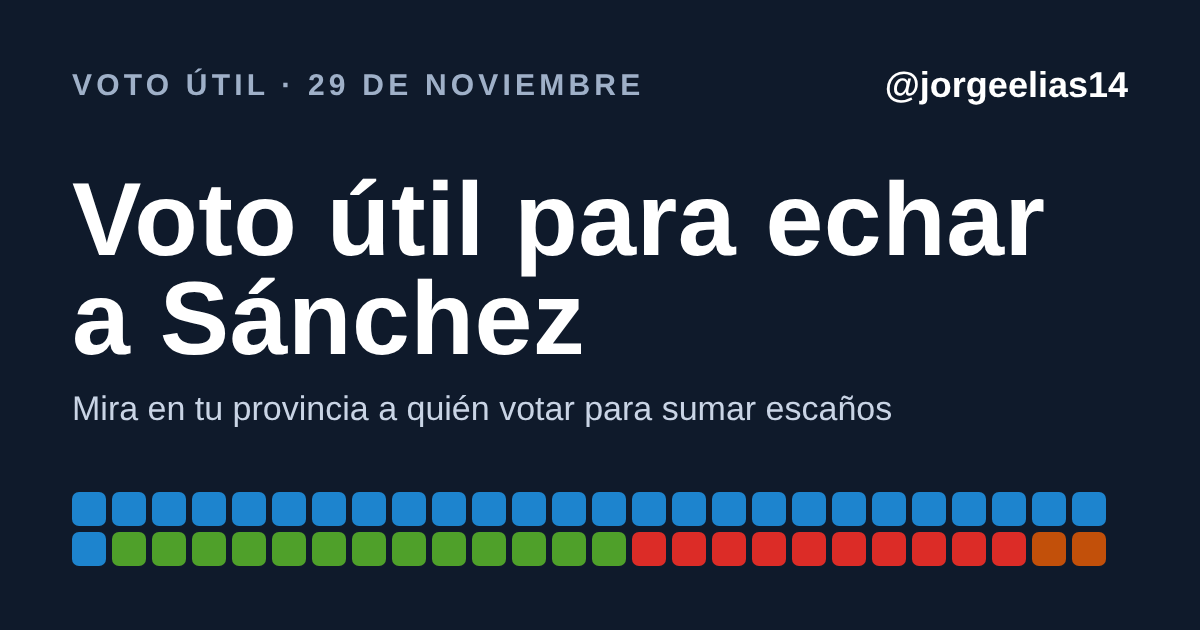
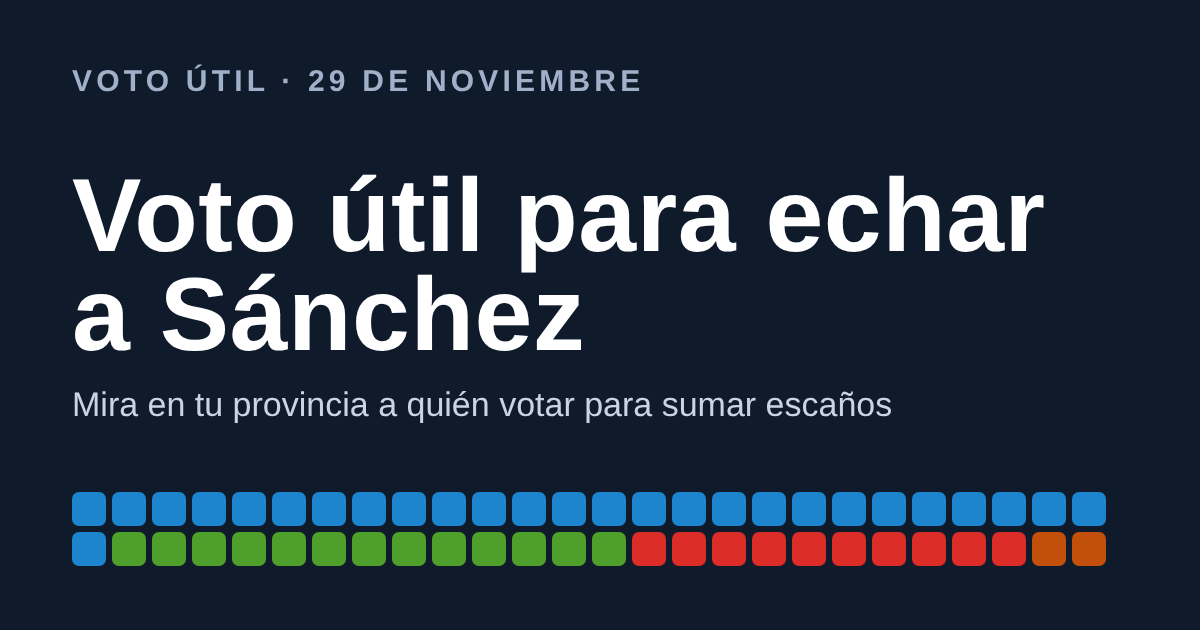
Imagen de vista previa sin @; og:image y og:url apuntan a GitHub Pages
Claude-Session: https://claude.ai/code/session_01AByBaXScEBvXKapsPHsWRr

diff --git a/index.html b/index.html
@@ -8,15 +8,15 @@
 <meta property="og:type" content="website">
 <meta property="og:title" content="Voto útil para echar a Sánchez (a su puta casa)">
 <meta property="og:description" content="Mira en tu provincia a quién conviene votar para sumar escaños. Media de encuestas y tendencia.">
-<meta property="og:url" content="https://votoutil29n.netlify.app/">
+<meta property="og:url" content="https://joref14.github.io/votoutilsanchezatucasa/">
 <meta property="og:locale" content="es_ES">
-<meta property="og:image" content="https://votoutil29n.netlify.app/preview.png">
+<meta property="og:image" content="https://joref14.github.io/votoutilsanchezatucasa/preview.png">
 <meta property="og:image:type" content="image/png">
 <meta property="og:image:width" content="1200">
 <meta property="og:image:height" content="630">
 <meta property="og:image:alt" content="Voto útil para echar a Sánchez (a su puta casa)">
 <meta name="twitter:card" content="summary_large_image">
-<meta name="twitter:image" content="https://votoutil29n.netlify.app/preview.png">
+<meta name="twitter:image" content="https://joref14.github.io/votoutilsanchezatucasa/preview.png">
 <style>
 :root{color-scheme:light;padding-top:env(safe-area-inset-top,0px);padding-bottom:env(safe-area-inset-bottom,0px);-webkit-text-size-adjust:100%}
 html,body{margin:0}
